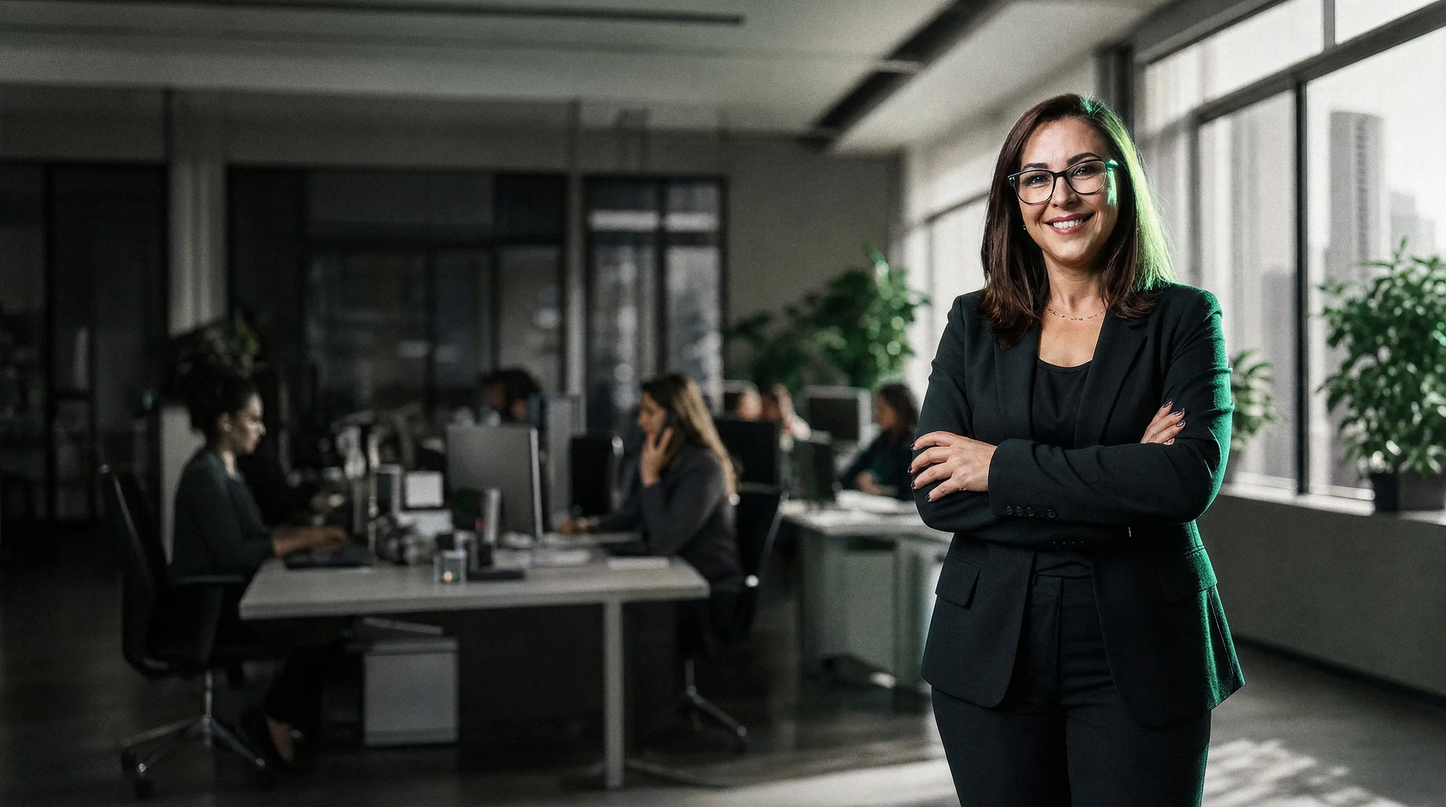
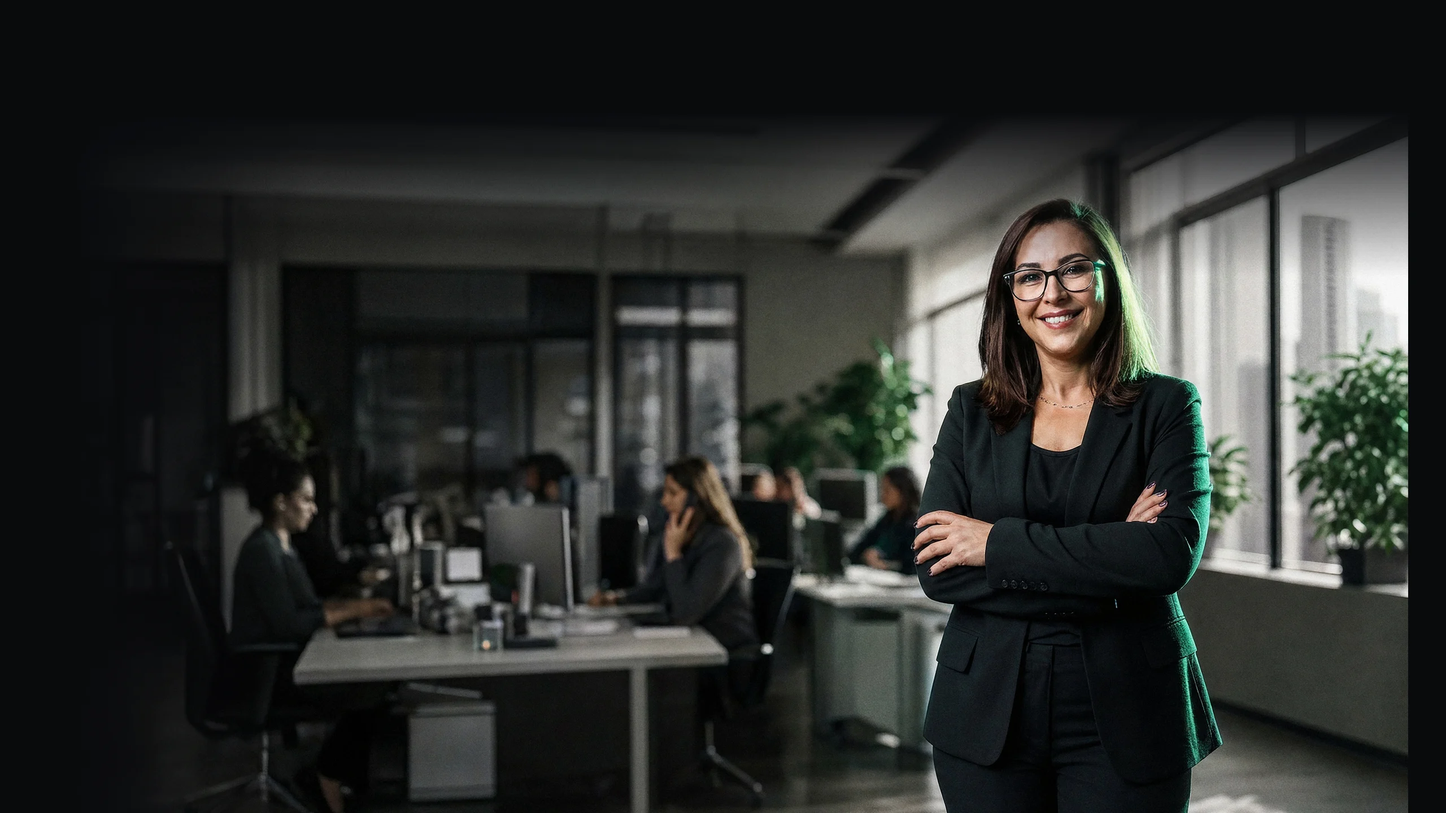
Home: uma foto por cena, camada de baixo em preto e cinza via CSS, cenas recompostas com rosto no mesmo ponto e tamanho
Claude-Session: https://claude.ai/code/session_01G58D6pGUDmbuCZZ57jM7Ew

diff --git a/home/index.html b/home/index.html
@@ -24,7 +24,7 @@ nav .btn{padding:12px 20px;border-radius:999px;background:var(--green);color:#0a
 .hero .bg{position:absolute;inset:0;display:grid}
 .hero .bg .slide{grid-area:1/1;position:relative;opacity:0;transition:opacity .9s ease}
 .hero .bg .slide.on{opacity:1}
-.hero .bg img{position:absolute;left:0;top:0;width:100%;height:auto;max-width:none;mask-image:linear-gradient(180deg,transparent 0,#000 14%),linear-gradient(90deg,transparent 0,#000 14%);-webkit-mask-image:linear-gradient(180deg,transparent 0,#000 14%),linear-gradient(90deg,transparent 0,#000 14%);mask-composite:intersect;-webkit-mask-composite:source-in}
+.hero .bg img{position:absolute;inset:0;width:100%;height:100%;object-fit:cover;object-position:50% 0}
 .hero .bg img.bw{filter:grayscale(1) contrast(1.06)}
 .hero .bg img.cor{opacity:0;transition:opacity 1.6s ease .5s}
 .hero .bg .slide.on img.cor{opacity:1}
@@ -47,7 +47,7 @@ nav .btn{padding:12px 20px;border-radius:999px;background:var(--green);color:#0a
 .hero .tags{position:absolute;z-index:3;left:71.5%;top:calc(34% + min(18svh,150px) + 18px);transform:translateX(-50%);display:flex;gap:6px;flex-wrap:nowrap;justify-content:center;white-space:nowrap}
 .hero .who{position:absolute;z-index:3;left:71.5%;top:calc(34% + min(18svh,150px) + 66px);transform:translateX(-50%);width:min(34vw,480px);text-align:center;font:600 clamp(15px,1.3vw,19px) var(--sans);color:#fff;letter-spacing:-.01em;line-height:1.3;padding:12px 18px;border-radius:14px;background:rgba(10,11,14,.72);backdrop-filter:blur(10px);-webkit-backdrop-filter:blur(10px);border:1px solid rgba(255,255,255,.08)}.hero .tags span{font:600 11px var(--mono);letter-spacing:.04em;text-transform:uppercase;padding:7px 11px;border-radius:999px;border:1px solid rgba(255,255,255,.12);color:#d7dce2;background:rgba(10,11,14,.72);backdrop-filter:blur(10px);-webkit-backdrop-filter:blur(10px);transition:all .3s}
 .hero .tags span.on{background:var(--green);border-color:var(--green);color:#0a0b0e}
-@media(max-width:900px){.hero{padding:96px 0 32px;align-items:start}.hero .bg{height:58svh;bottom:auto}.hero .bg img{object-position:73% 20%}.hero .fade{background:linear-gradient(180deg,rgba(10,11,14,.3) 0%,rgba(10,11,14,0) 30%,rgba(10,11,14,.2) 45%,var(--bg) 60%)}.hero .target{right:auto;left:73%;top:24svh;transform:translate(-50%,-50%);width:min(60vw,260px);height:24svh}.hero .target .br{width:30px}.hgrid{padding-top:56svh}.hero h1{font-size:clamp(46px,13vw,80px)}.hero .tags{left:50%;top:calc(24svh + 12svh + 12px);flex-wrap:wrap;width:90vw}.hero .who{left:50%;top:calc(24svh + 12svh + 60px);width:86vw;font-size:14px}.hero .bg img{position:absolute;inset:0;width:100%;height:100%;object-fit:cover;object-position:72% 20%}}
+@media(max-width:900px){.hero{padding:96px 0 32px;align-items:start}.hero .bg{height:58svh;bottom:auto}.hero .bg img{object-position:73% 20%}.hero .fade{background:linear-gradient(180deg,rgba(10,11,14,.3) 0%,rgba(10,11,14,0) 30%,rgba(10,11,14,.2) 45%,var(--bg) 60%)}.hero .target{right:auto;left:73%;top:24svh;transform:translate(-50%,-50%);width:min(60vw,260px);height:24svh}.hero .target .br{width:30px}.hgrid{padding-top:56svh}.hero h1{font-size:clamp(46px,13vw,80px)}.hero .tags{left:50%;top:calc(24svh + 12svh + 12px);flex-wrap:wrap;width:90vw}.hero .who{left:50%;top:calc(24svh + 12svh + 60px);width:86vw;font-size:14px}.hero .bg img{object-position:72% 0}}
 @media(prefers-reduced-motion:reduce){.hero .bg .slide,.hero .bg img.cor{transition:none;animation:none;opacity:1}}
 
 </style>
@@ -56,7 +56,7 @@ nav .btn{padding:12px 20px;border-radius:999px;background:var(--green);color:#0a
 <nav><div class="bar"><a class="lg" href="/"><b>[</b> kompila <b>]</b></a><div class="links"><a href="#produtos">Produtos</a><a href="#tudo">Tudo ligado</a><a href="#prova">Prova</a><a href="#equipe">Equipe</a><a href="#blog">Blog</a></div><a class="btn" href="#diagnostico">Falar com a Kompila</a></div></nav>
 
 <section class="hero" id="topo">
-  <div class="bg" aria-hidden="true"><div class="slide on" data-fx=".72" data-fy=".24" data-fh=".14"><img class="bw" src="img/hero-moda-bw.webp" alt=""><img class="cor" src="img/hero-moda.webp" alt=""></div><div class="slide" data-fx=".71" data-fy=".17" data-fh=".19"><img class="bw" src="img/hero-led-bw.webp" alt=""><img class="cor" src="img/hero-led.webp" alt=""></div><div class="slide" data-fx=".72" data-fy=".22" data-fh=".18"><img class="bw" src="img/hero-contab-bw.webp" alt=""><img class="cor" src="img/hero-contab.webp" alt=""></div></div>
+  <div class="bg" aria-hidden="true"><div class="slide on" data-fx=".72" data-fy=".24" data-fh=".14"><img class="bw" src="img/hero-moda.webp" alt=""><img class="cor" src="img/hero-moda.webp" alt=""></div><div class="slide" data-fx=".71" data-fy=".17" data-fh=".19"><img class="bw" src="img/hero-led.webp" alt=""><img class="cor" src="img/hero-led.webp" alt=""></div><div class="slide" data-fx=".72" data-fy=".22" data-fh=".18"><img class="bw" src="img/hero-contab.webp" alt=""><img class="cor" src="img/hero-contab.webp" alt=""></div></div>
   <div class="fade" aria-hidden="true"></div>
   <div class="target" aria-hidden="true"><svg class="br l" viewBox="0 0 60 100" preserveAspectRatio="none"><path d="M60 2 H6 V98 H60" fill="none" stroke="currentColor" stroke-width="9" vector-effect="non-scaling-stroke"/></svg><svg class="br r" viewBox="0 0 60 100" preserveAspectRatio="none"><path d="M0 2 H54 V98 H0" fill="none" stroke="currentColor" stroke-width="9" vector-effect="non-scaling-stroke"/></svg></div>
   <div class="tags" id="tags"><span class="on">anúncio → venda</span><span>orçamento → contrato</span><span>loja → faturamento</span></div>
@@ -77,11 +77,5 @@ if(matchMedia('(prefers-reduced-motion:reduce)').matches)return;
 setInterval(function(){i=(i+1)%im.length;im.forEach(function(x,k){x.classList.toggle('on',k===i)});tg.forEach(function(x,k){x.classList.toggle('on',k===i)});who.textContent=W[i]},6000)})();
 </script>
 
-<script>
-(function(){var hero=document.querySelector('.hero'),slides=[].slice.call(document.querySelectorAll('.hero .bg .slide'));var TX=.715,TY=.34,TH=.165,R=1.79;
-function fit(){var HW=hero.clientWidth,HH=hero.clientHeight;if(matchMedia('(max-width:900px)').matches){slides.forEach(function(sl){sl.querySelectorAll('img').forEach(function(im){im.style.cssText=''})});return}
-slides.forEach(function(sl){var fx=+sl.dataset.fx,fy=+sl.dataset.fy,fh=+sl.dataset.fh;var Hd=TH*HH/fh,Wd=Hd*R;if(Wd<HW*.8){Wd=HW*.8;Hd=Wd/R}var left=TX*HW-fx*Wd,top=TY*HH-fy*Hd;sl.querySelectorAll('img').forEach(function(im){im.style.width=Wd+'px';im.style.height=Hd+'px';im.style.left=left+'px';im.style.top=top+'px'})})}
-fit();addEventListener('resize',fit);addEventListener('load',fit)})();
-</script>
 </body>
 </html>
